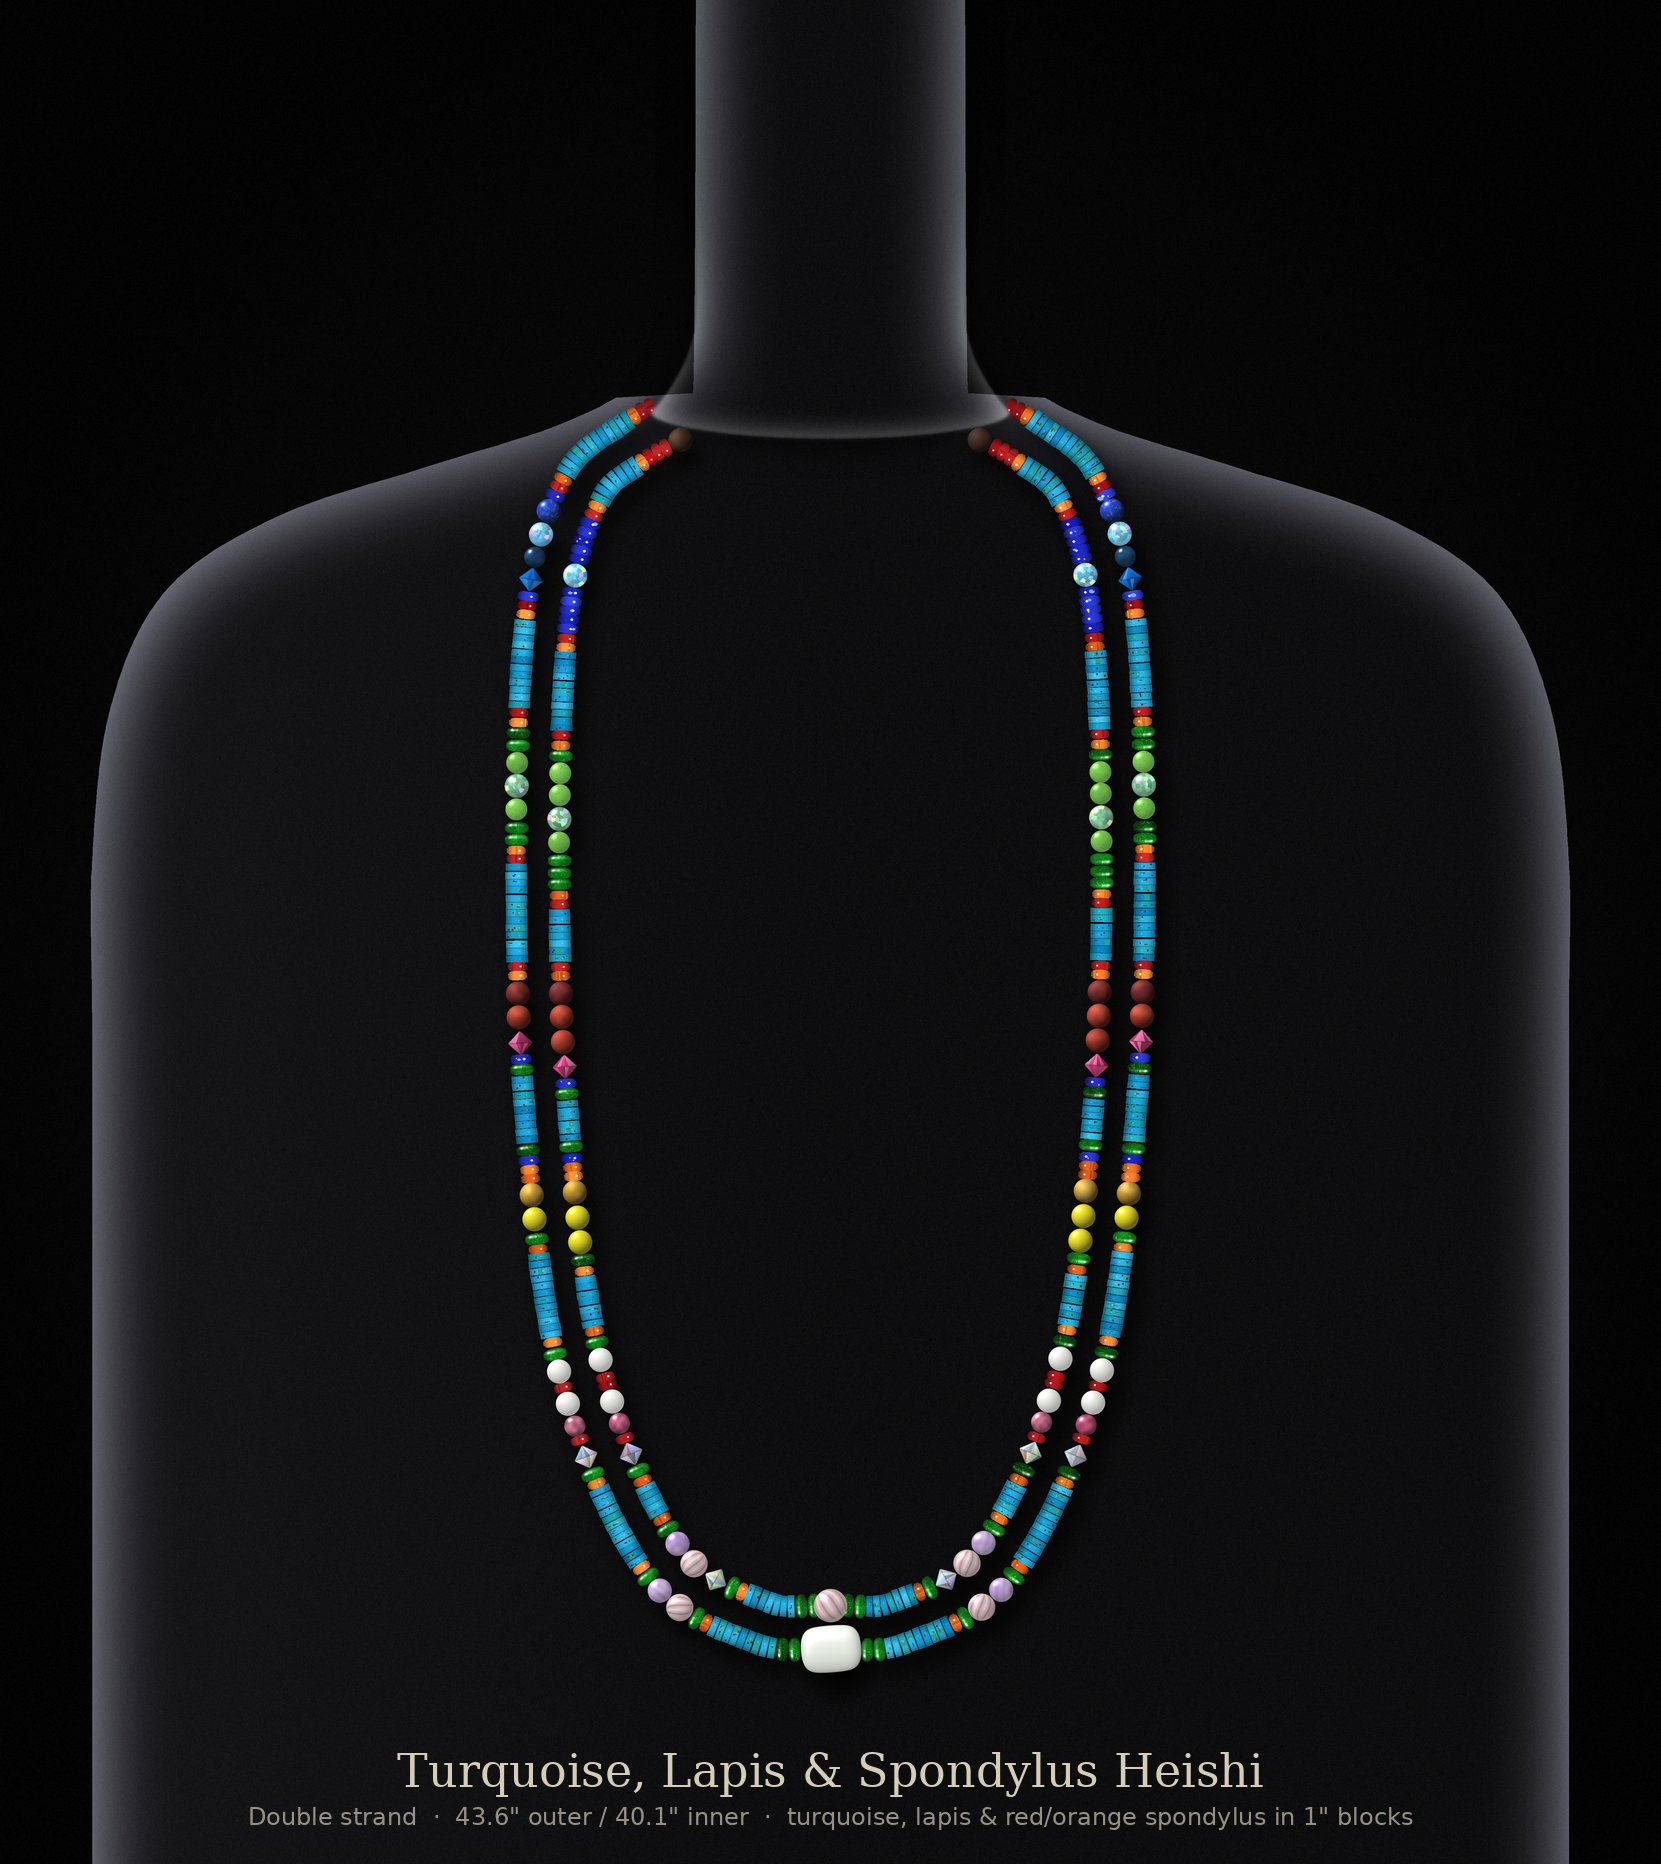
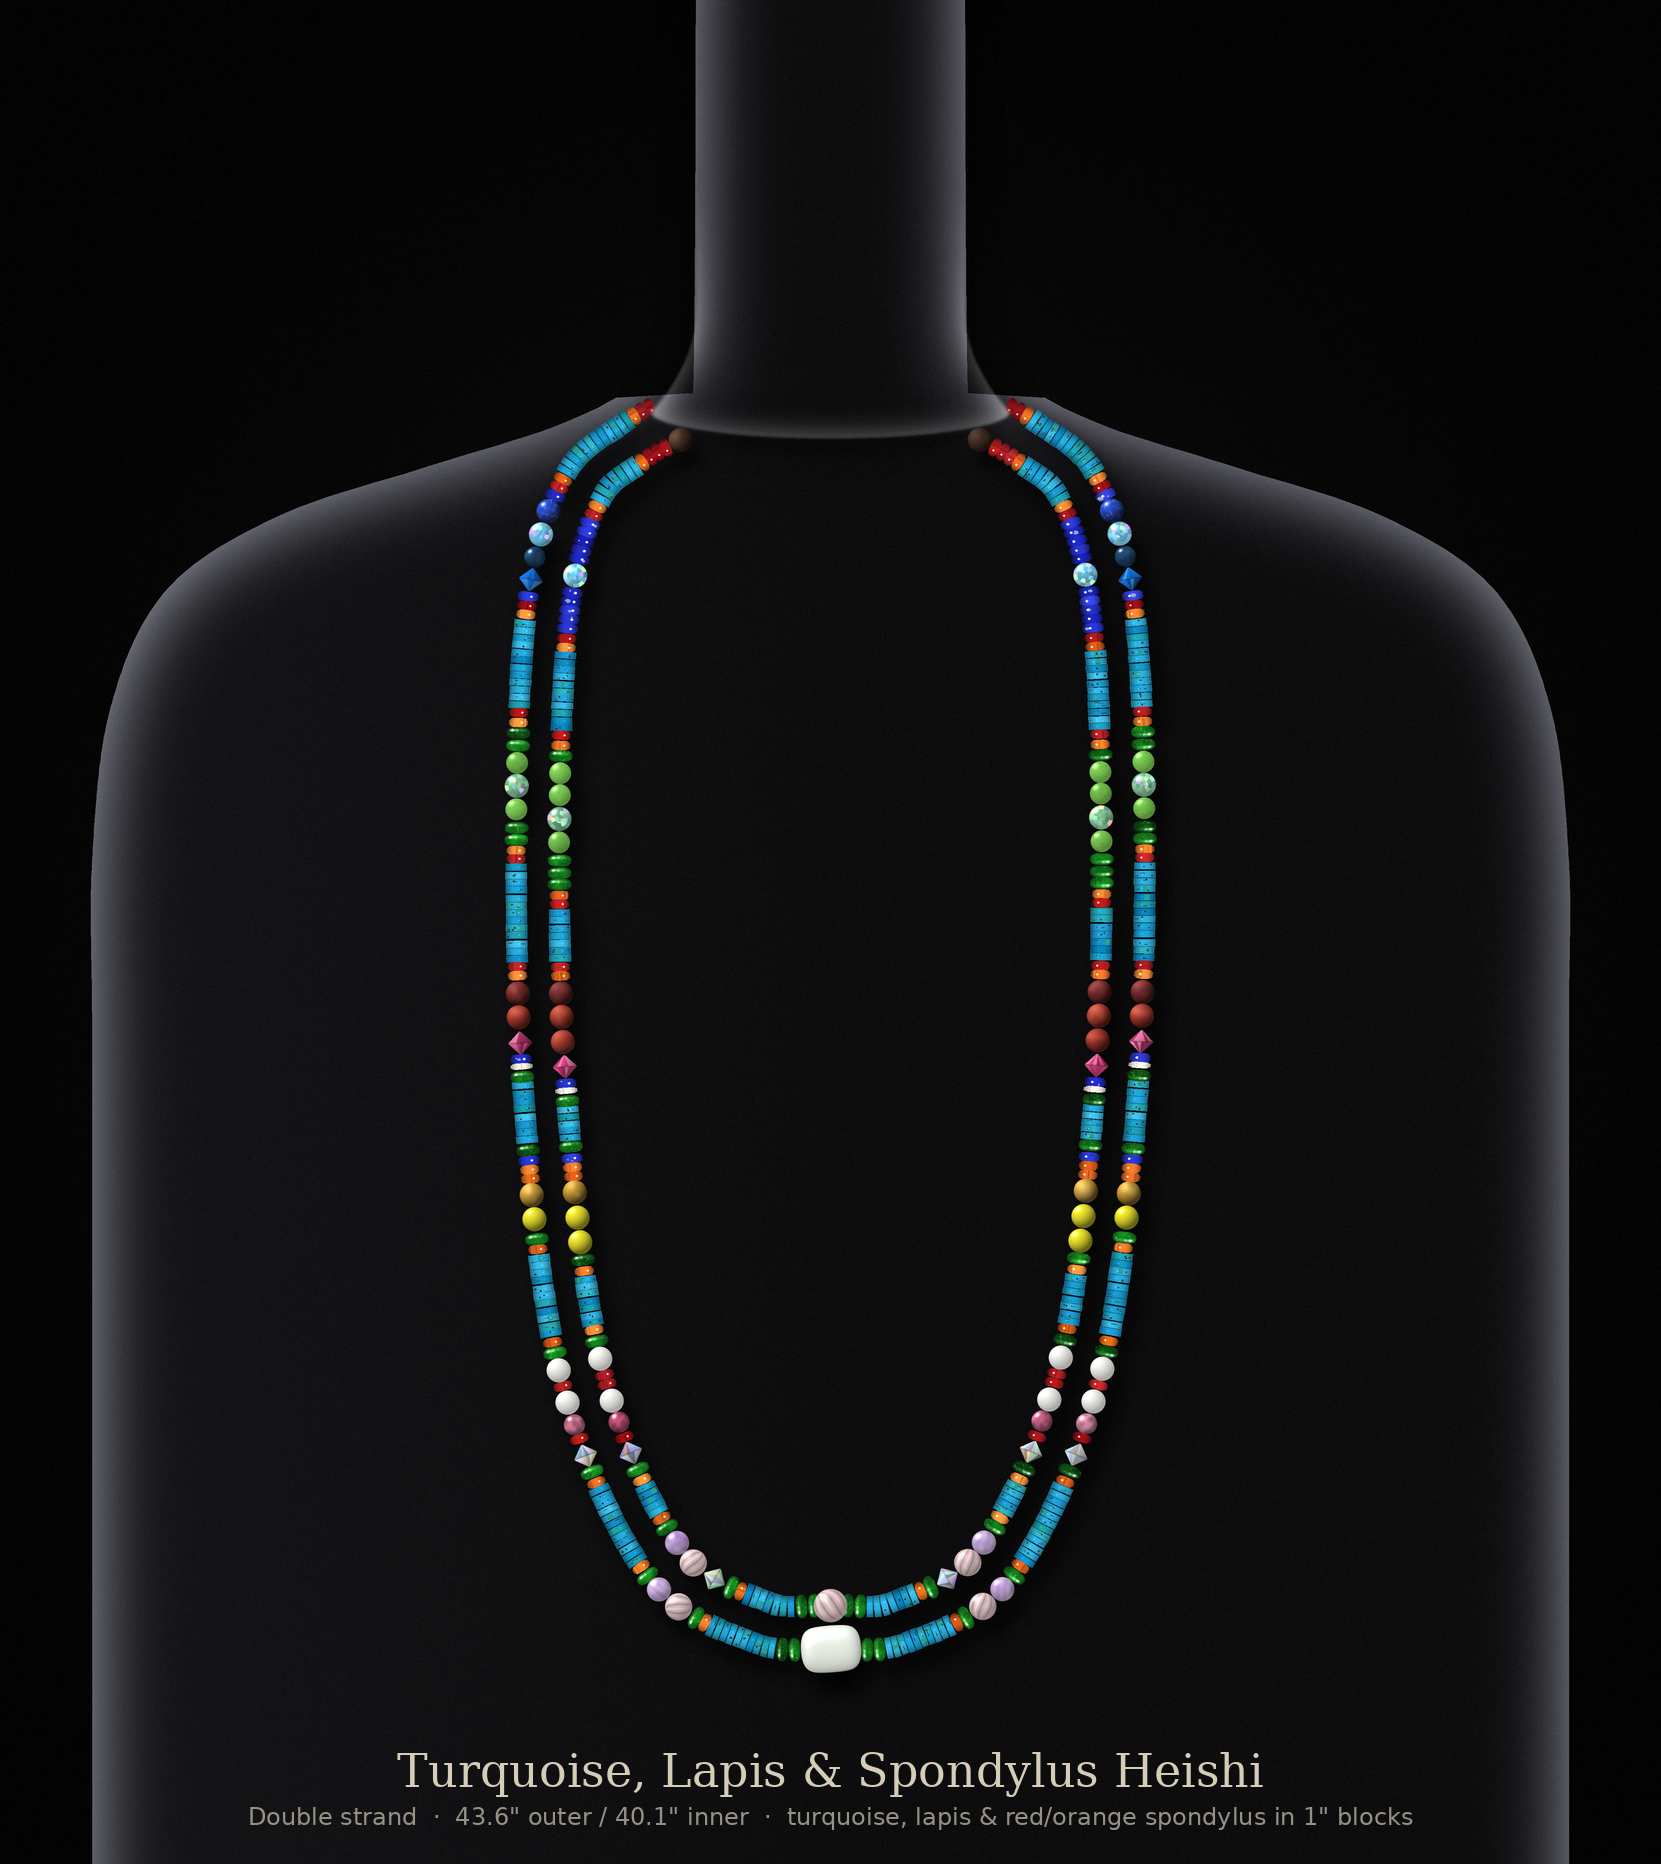
Version 5: white conch rondelle between the lapis and the green under the rose bicones
Claude-Session: https://claude.ai/code/session_014be1vF4Rdf8sv9Si75Gudv

diff --git a/necklace/render_necklace.py b/necklace/render_necklace.py
@@ -936,7 +936,7 @@ if V4:
     SZ = {"diop": PER_L_, "jade": 7.3, "gglass": 8.0, "gtourm": 7.0, "olive": 7.0, "tan": 7.0, "pink": 7.0,
           "black": 7.0, "yellow": 8.0, "opal10": 10.0, "opal9": 9.0, "rq9": 9.0, "rq11": 11.0, "ajas": 10.0,
           "mook": 8.0, "rbic": 8.0, "sapph": 8.0, "abbic": 8.0, "lapis8": 8.0, "blueglass": 8.0, "red": 3.0, "orange": 3.0,
-          "redglass": 3.0, "focal": 19.7, "lapisH": 3.0, "mookred": 8.0, "tblue": 7.0, "mookyel": 8.0, "mookrd": 8.0, "mookorg": 8.0, "opal8": 8.0, "amet": 8.0}
+          "redglass": 3.0, "focal": 19.7, "lapisH": 3.0, "mookred": 8.0, "tblue": 7.0, "mookyel": 8.0, "mookrd": 8.0, "mookorg": 8.0, "opal8": 8.0, "amet": 8.0, "conch": 2.0}
     def F(core, flank, n):                     # wrap a core with n flank beads split either side
         a = n // 2; b = n - a
         return [flank] * a + core + [flank] * b
@@ -1084,6 +1084,9 @@ if V4:
         def _y_red_low(seq):                        # 8 mm red glass between the lapis and the green at the bottom
             seq = list(seq); assert seq[-2:] == ["lapisH", "diop"], seq; return seq[:-1] + ["redglass", "diop"]
         BANDS[3] = tuple(_y_red_low(b) for b in BANDS[3])
+        def _conch(seq):                            # 7 x 2 mm white conch between the lapis and the green under the rose bicone
+            seq = list(seq); assert seq[-3:] == ["rbic", "lapisH", "diop"], seq; return seq[:-1] + ["conch", "diop"]
+        BANDS[6] = tuple(_conch(b) for b in BANDS[6])
         # every 8 mm red glass rondelle becomes a red spiny oyster rondelle
         BANDS = [tuple([("red" if k == "redglass" else k) for k in x] for x in bb) for bb in BANDS]
         def _diop_up(seq):                          # green diopside moves up, right under the yellow glass
@@ -1159,7 +1162,7 @@ if V4:
               "tan": "tour_yellow", "pink": "tour_pink", "black": "tour_black", "yellow": "bicone_lime",
               "opal10": "v4_opal10", "opal9": "v4_opal9", "rq9": "rose", "rq11": "rose11", "ajas": "ajas_t", "mookred": "v5_mookred", "tblue": "v5_tblue", "mookyel": "v5_mookyel", "mookrd": "v5_mookrd", "mookorg": "v5_mookorg", "opal8": "v5_opal8", "amet": "v5_amet",
               "mook": "mook8", "rbic": "v4_rbic", "sapph": "v4_sapph", "abbic": "v5_abbic", "blueglass": "conch8", "focal": "wjade"}
-    HEI = {"red": 2, "orange": 3, "redglass": 5}
+    HEI = {"red": 2, "orange": 3, "redglass": 5, "conch": 6}
     V5_TARGET = None
     V5_EQ = {}
     for _pass in (range(2) if V5 else range(1)):
@@ -1254,6 +1257,7 @@ if V4:
                     widths[3] -= 2 * SZ["red"]      # inner blue's red ends: band grows upward, room from the neck lapis
                 if st == 1:
                     widths[6] += SZ["orange"]       # inner yellow band lost an orange: laid out as before
+                widths[5] -= SZ["conch"]            # white conch under the rose bicone: taken from the turquoise below
                 if st == 0:
                     widths[5] += SZ["mookorg"]      # outer mookaite band lost a round: laid out as before
                 if st == 0:
@@ -1333,6 +1337,8 @@ if V4:
                 if st == 0:
                     widths[5] -= SZ["mookorg"]
                     gaps[5] += SZ["mookorg"]            # bicone stays put; more turquoise in the run above the mookaite
+                widths[5] += SZ["conch"]
+                gaps[6] -= SZ["conch"]
                 if st == 1:
                     widths[6] -= SZ["orange"]
                     gaps[6] += SZ["orange"]             # yellow rounds stay put; more turquoise in the run above
@@ -1531,6 +1537,24 @@ for (x, y, tx, ty, i, _p), strand in allbeads:
         d.polygon(quad(x, y, tx, ty, -0.5, 0.5, 0.9), fill=(150, 225, 245))      # light through the hole
         gx, gy = P(x + nx * 1.2, y + ny * 1.2)
         d.ellipse([gx - 2.5, gy - 2.5, gx + 2.5, gy + 2.5], fill=(240, 252, 255))
+        continue
+    if kind == 6:
+        # 7 x 2 mm white conch shell rondelle: creamy white, satin, faint growth lines
+        R = 3.5
+        nstrip = 12
+        col = jitter(random.choice([(244, 238, 226), (238, 232, 218), (248, 244, 234)]), 6)
+        for k in range(nstrip):
+            a0 = -R + 2 * R * k / nstrip
+            a1 = -R + 2 * R * (k + 1) / nstrip
+            ac = (a0 + a1) / 2
+            u = (k + 0.5) / nstrip
+            half = 0.98 * (max(0.0, 1 - (abs(ac) / R) ** 4)) ** 0.5
+            f = 0.62 + 0.45 * math.sin(math.pi * u) ** 0.8
+            d.polygon(quad(x, y, tx, ty, a0, a1, max(half, 0.12)), fill=sh(col, f))
+        a = random.uniform(-0.6 * R, 0.6 * R)
+        d.polygon(quad(x + nx * a, y + ny * a, tx, ty, -0.2, 0.2, 0.8), fill=sh(col, 0.9))
+        gx, gy = P(x + nx * 0.35 * R, y + ny * 0.35 * R)
+        d.ellipse([gx - 2, gy - 2, gx + 2, gy + 2], fill=(255, 255, 252))
         continue
     if kind == 5:
         # 8 mm opaque red glass rondelle: glossy, puffy rim
